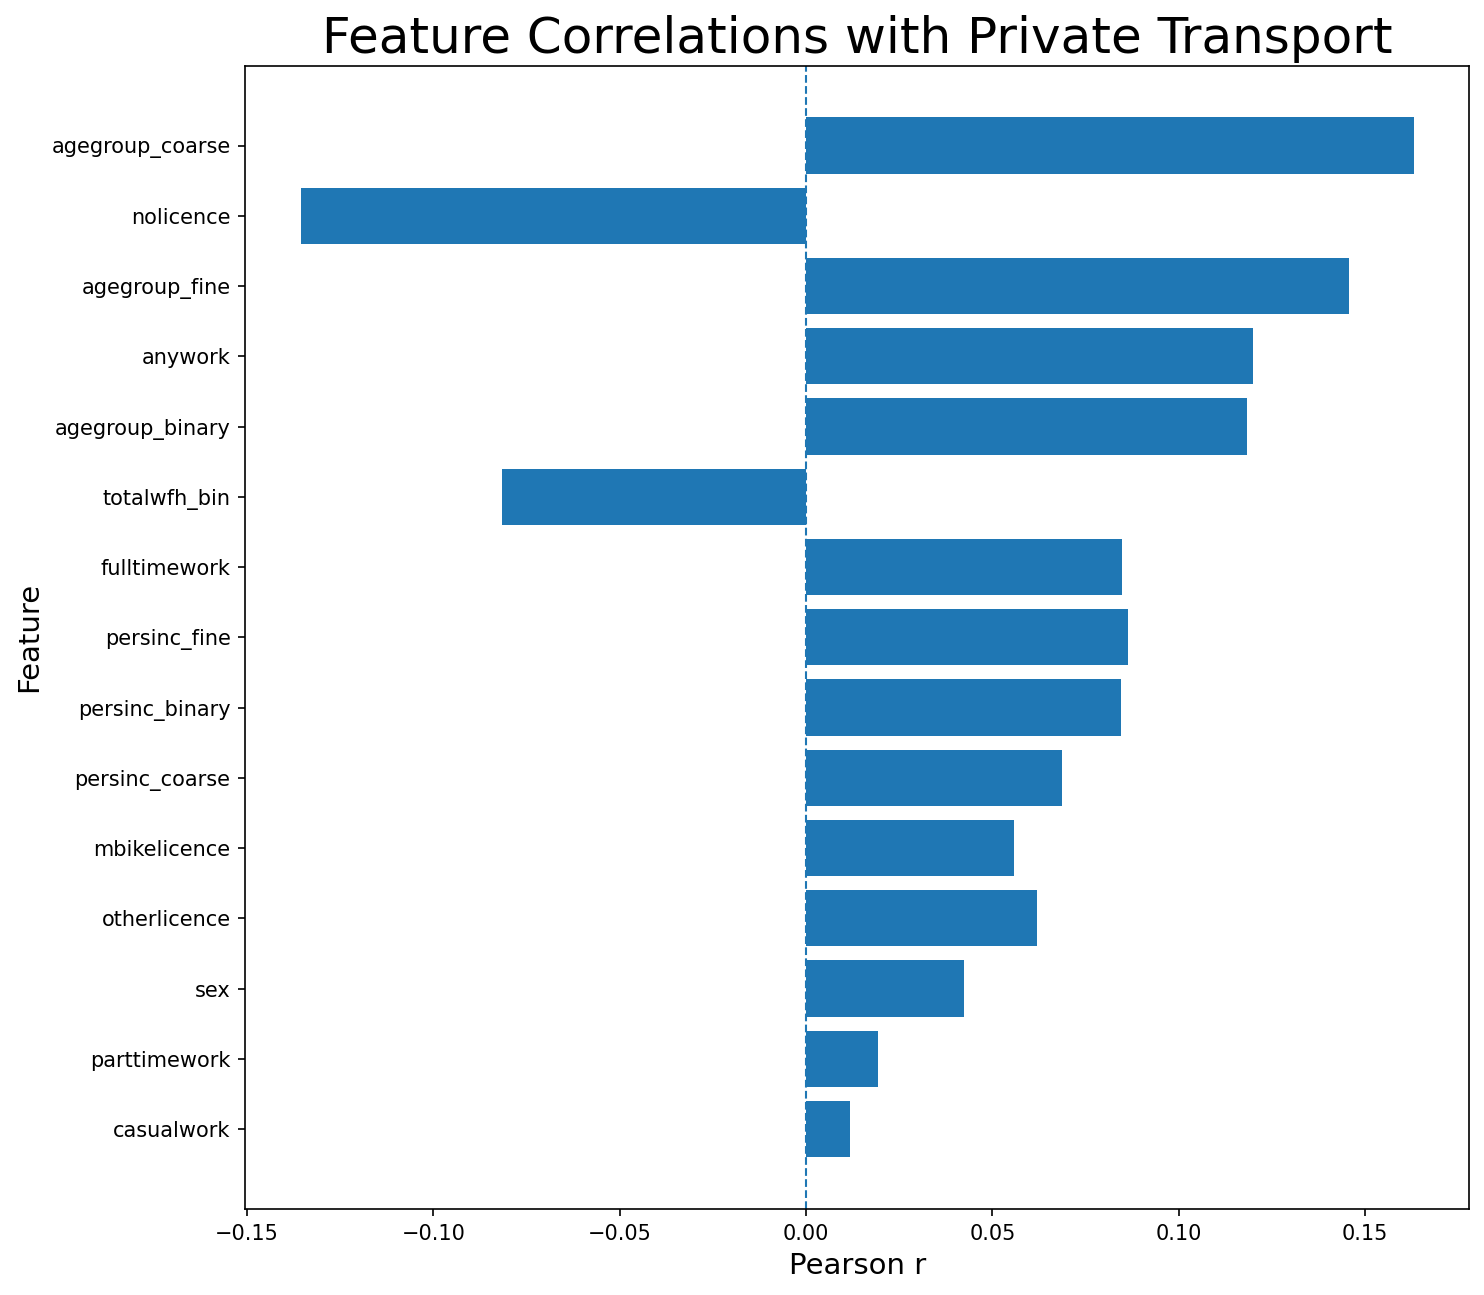
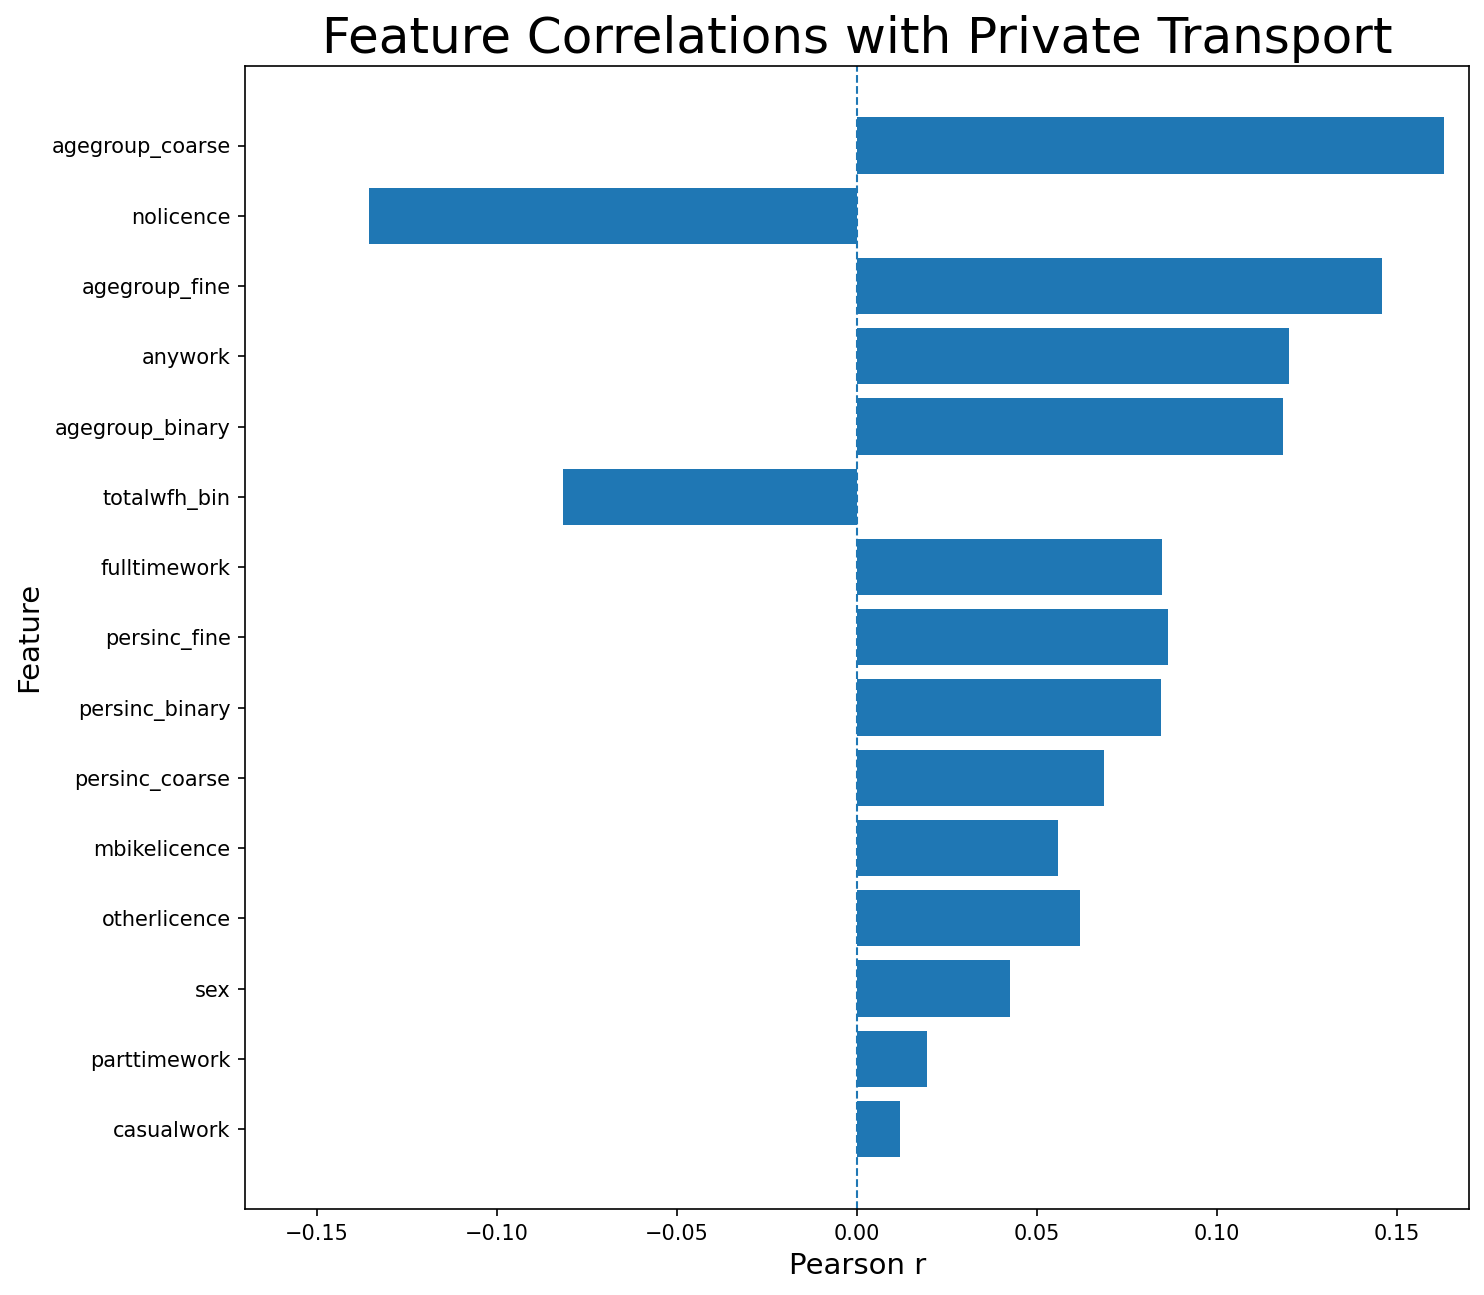
Consistent plot x-axis scale

diff --git a/correlation.py b/correlation.py
@@ -58,6 +58,8 @@ def plot_bar(series, xlabel, title, out_path):
 
     ax.barh(series.index, series.values)
     ax.axvline(0, linestyle="--", linewidth=1)
+    # Manually set x axis scale for easier graph comparisons
+    ax.set_xlim(-0.17, 0.17)
     ax.set_xlabel(xlabel, fontsize=LABEL_SIZE)
     ax.set_ylabel("Feature", fontsize=LABEL_SIZE)
     ax.set_title(title, fontsize=TITLE_SIZE)
